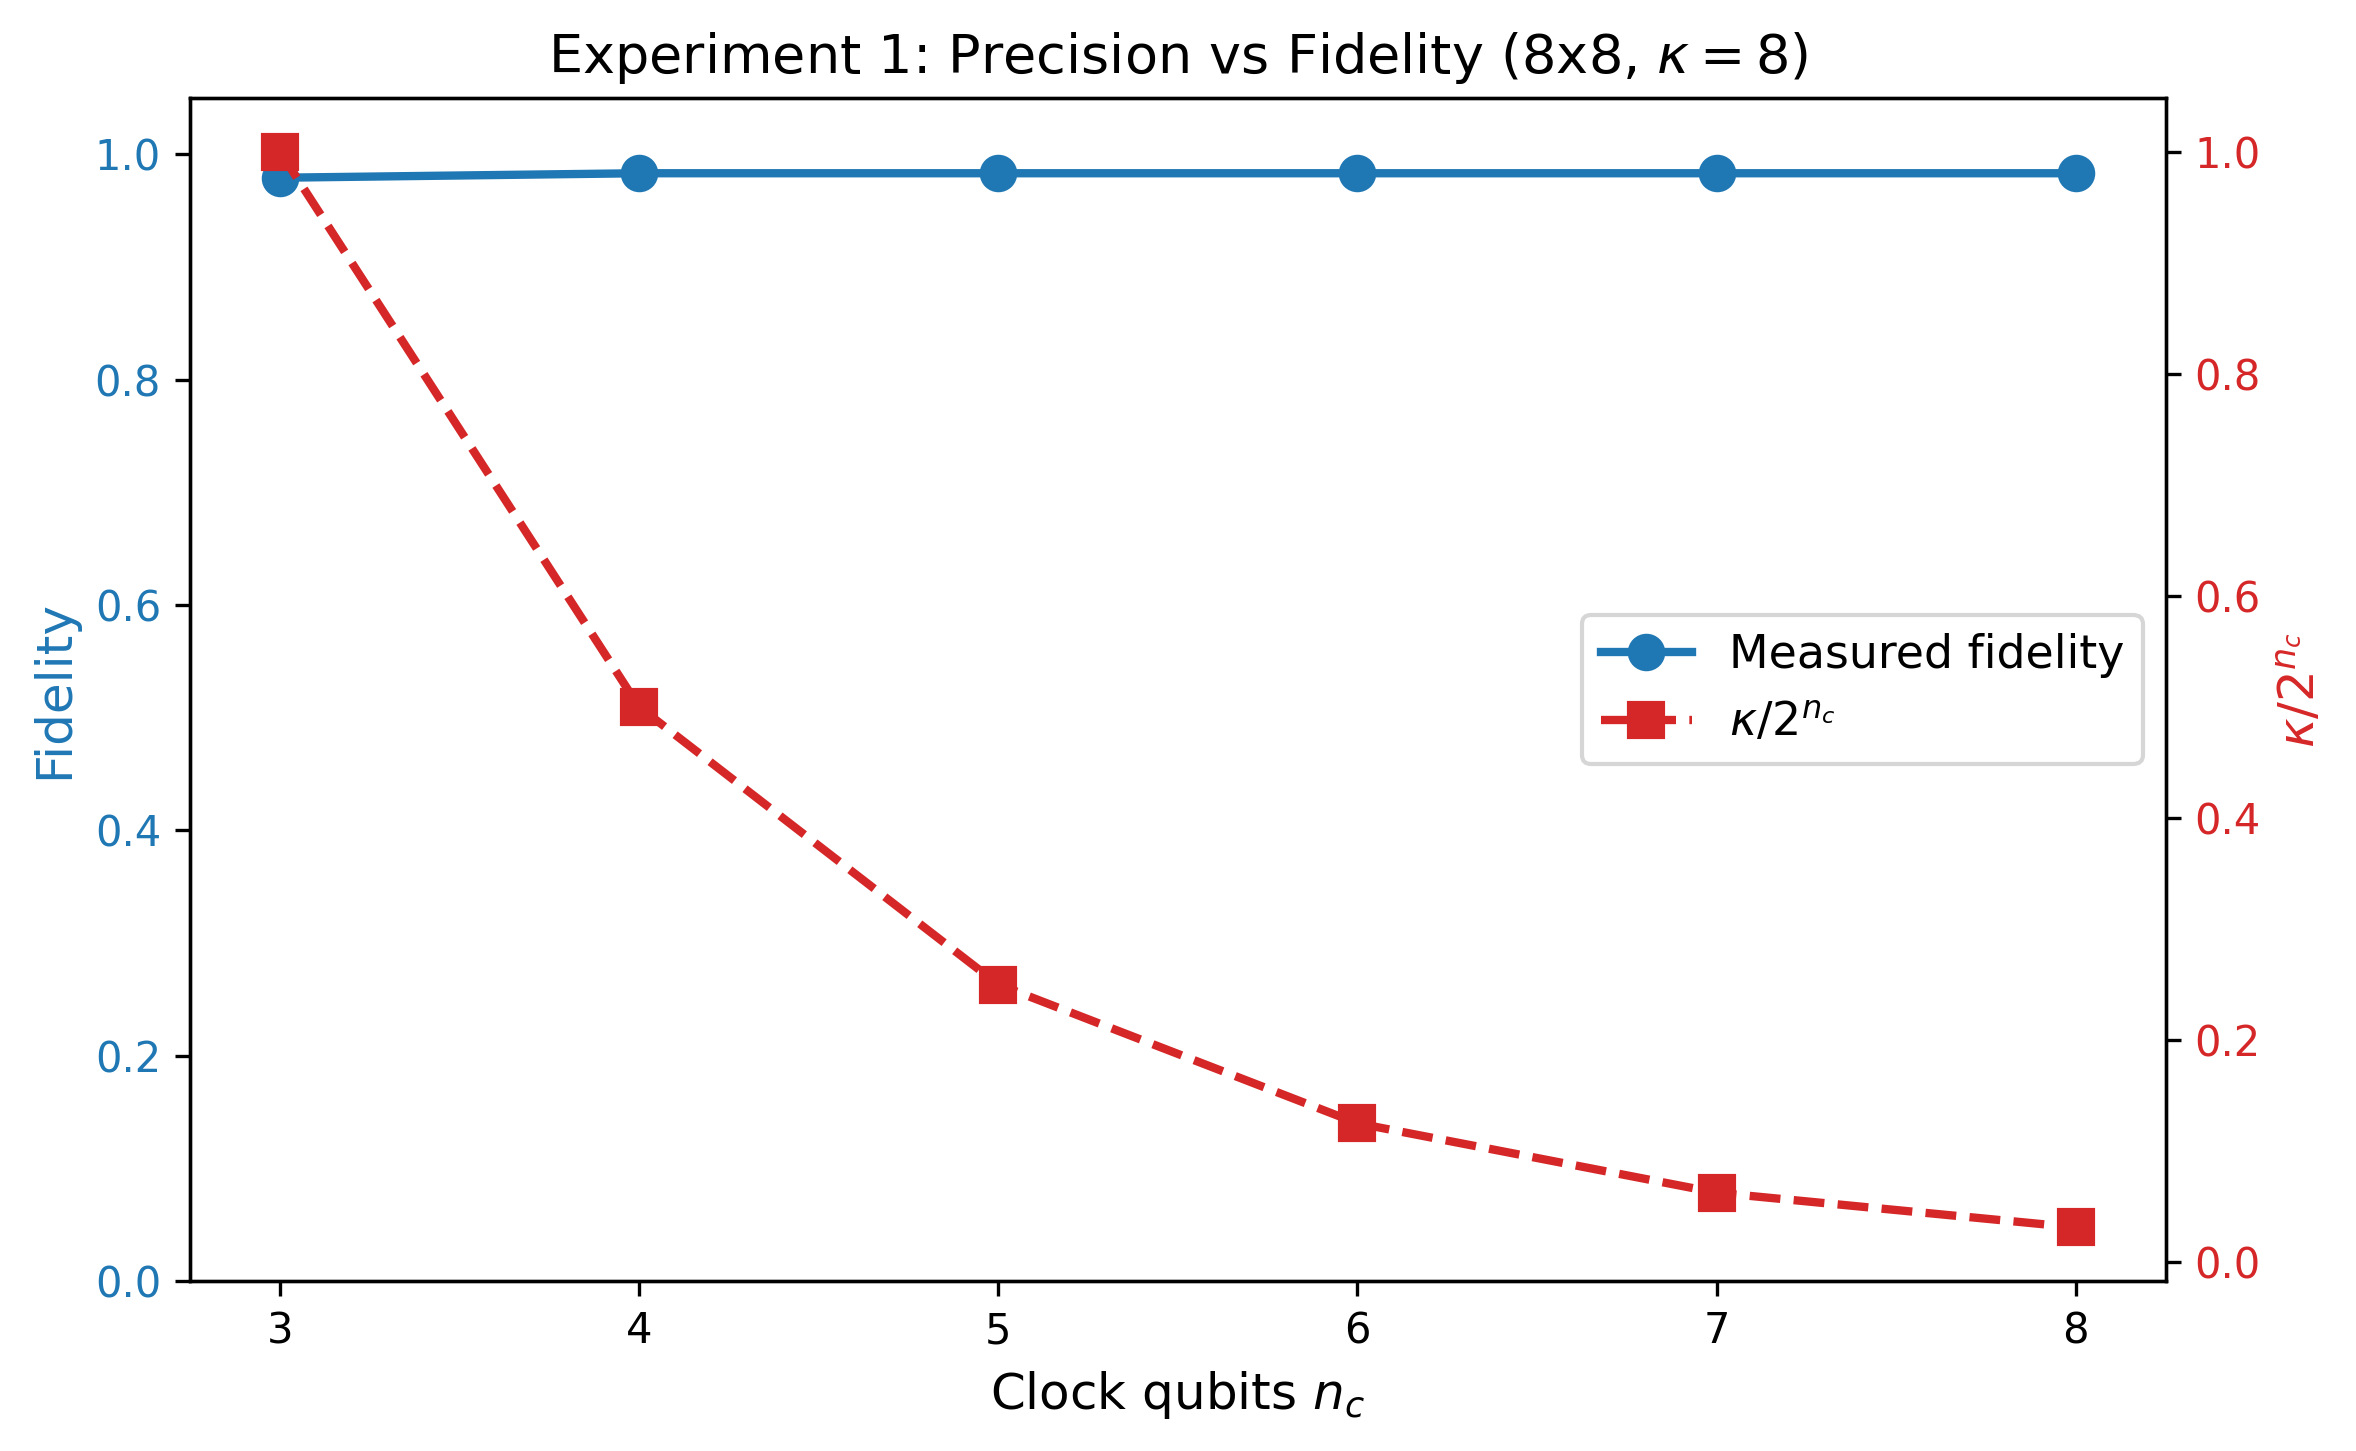
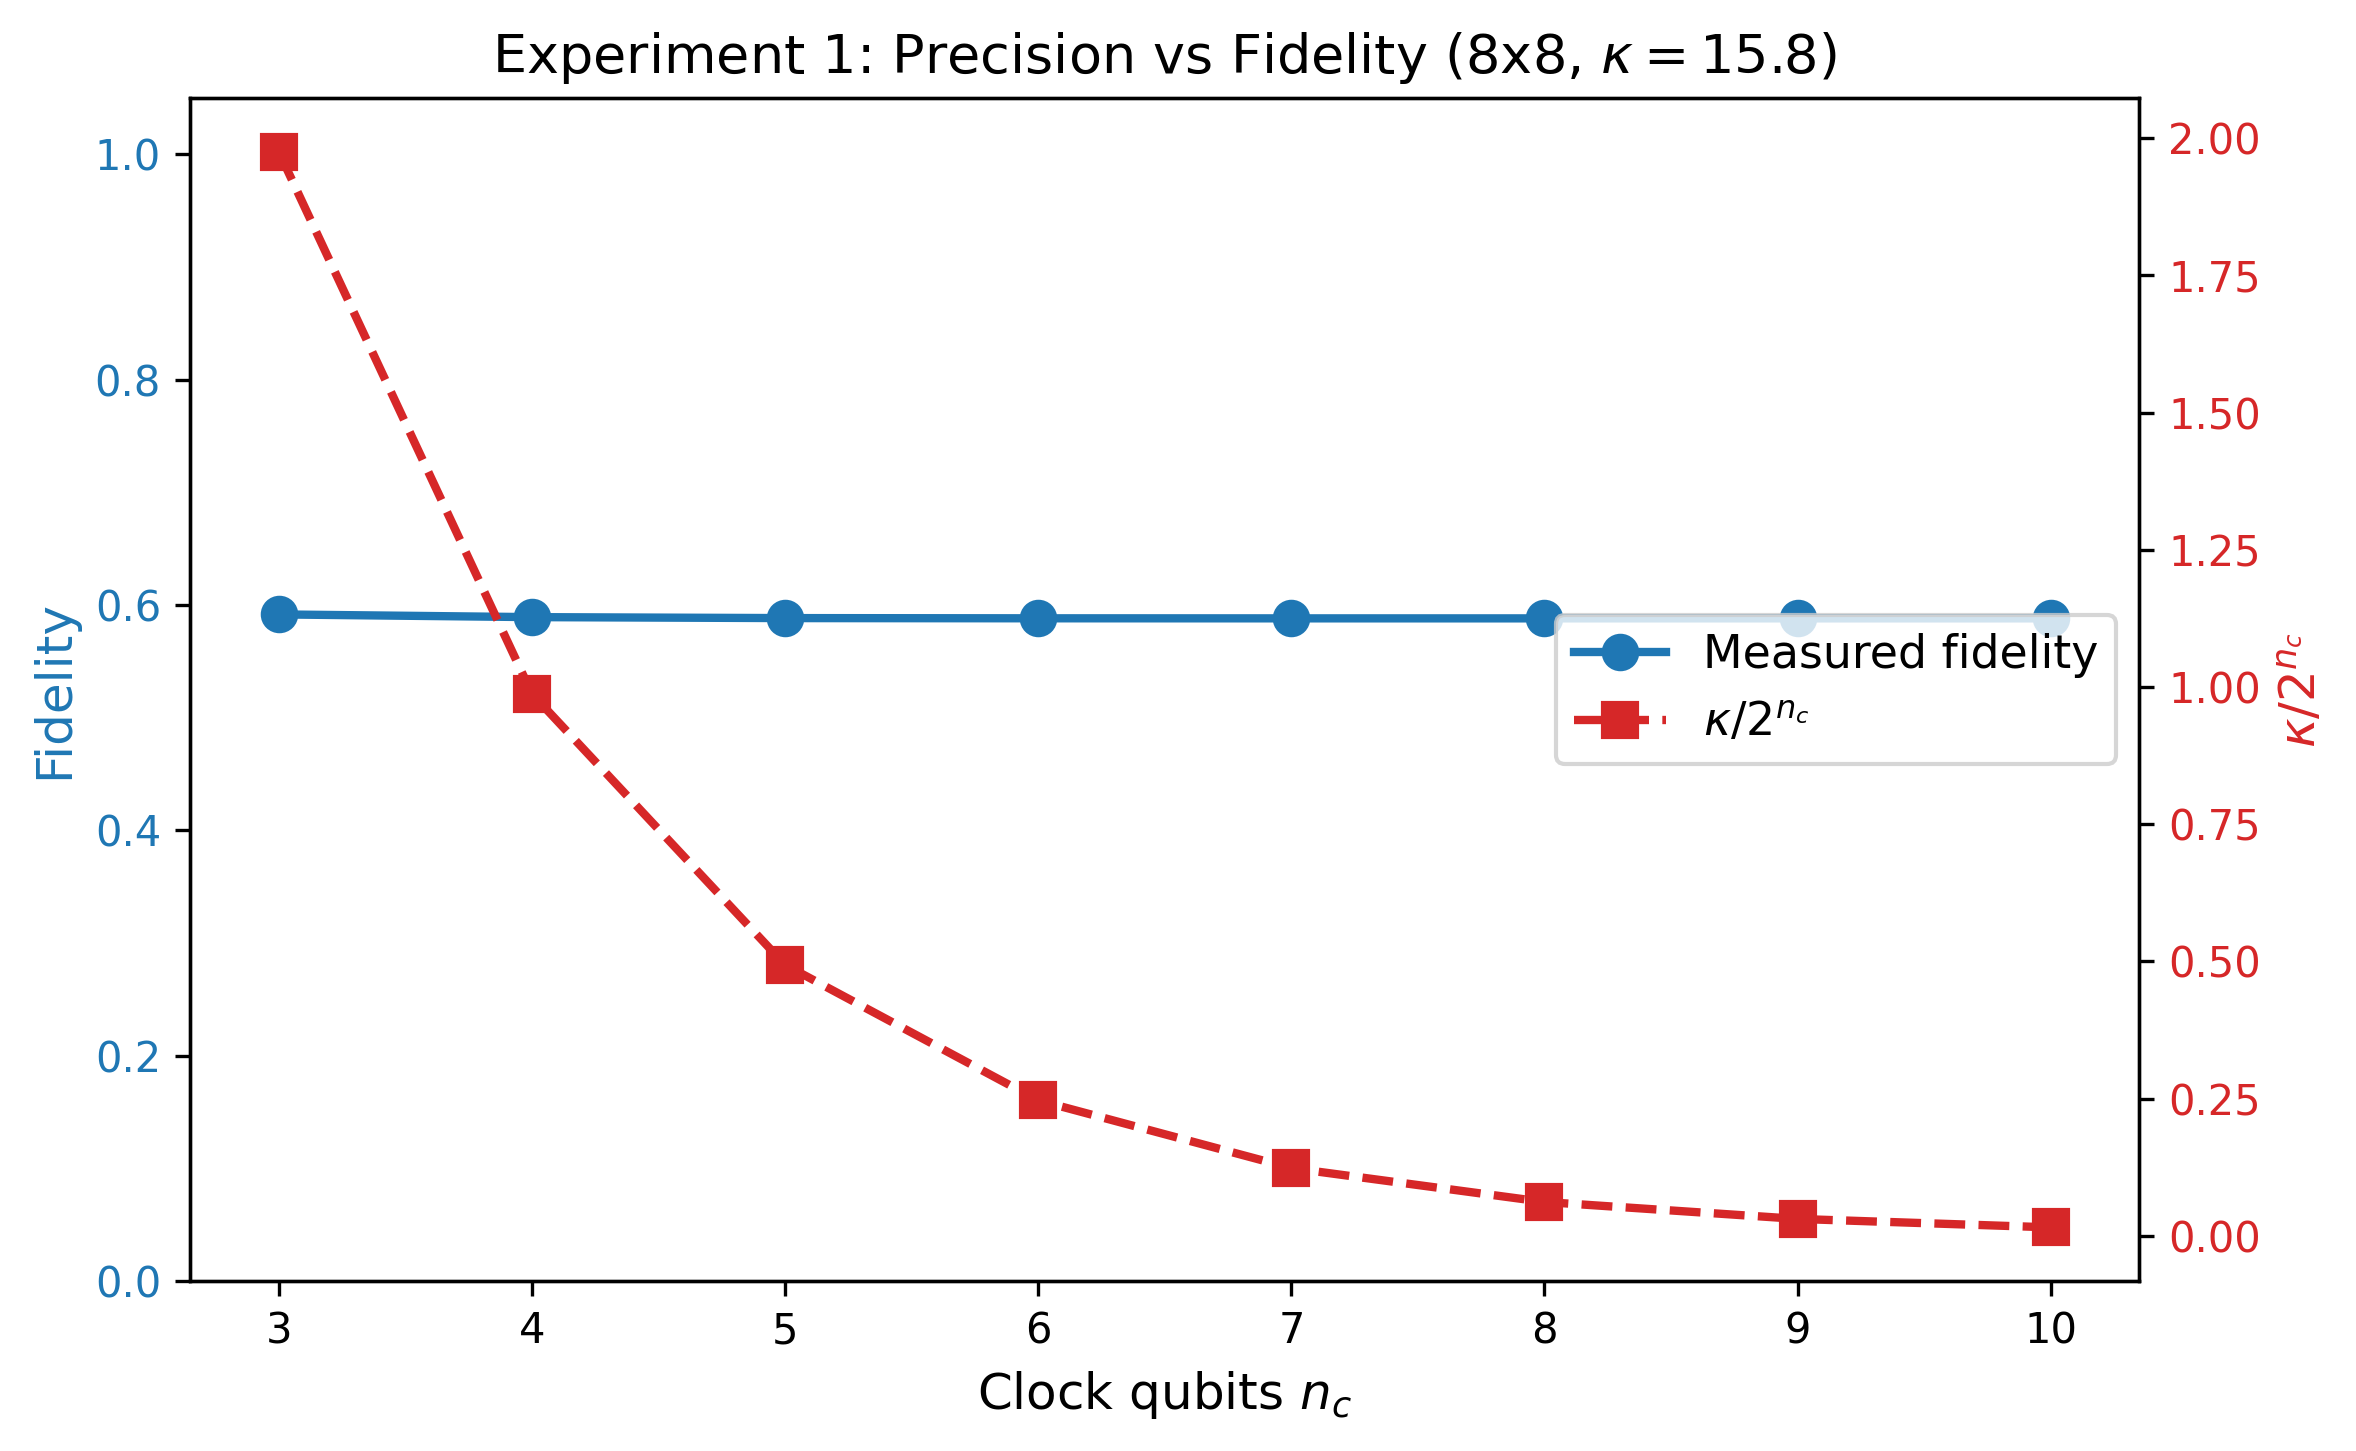
Update

diff --git a/HHL Code.py b/HHL Code.py
@@ -719,12 +719,18 @@ def run_shot_comparison(examples=None, shots=100000):
 def experiment_1_precision(A=None, b=None, n_clock_range=None, label='8x8'):
     """Experiment 1: Fidelity as a function of clock qubits for fixed system."""
     if A is None:
-        examples = generate_examples()
-        A = examples['8x8']['A']
-        b = examples['8x8']['b']
+        # Use NON-INTEGER eigenvalues so phase estimation precision matters
+        np.random.seed(42)
+        Q, _ = np.linalg.qr(np.random.randn(8, 8))
+        eigs = np.array([0.5, 1.3, 2.7, 3.1, 4.8, 5.5, 6.2, 7.9])
+        A = Q @ np.diag(eigs) @ Q.T
+        b = np.zeros(8)
+        b[0] = 1.0
+        b[7] = 1.0
+        b = b / np.linalg.norm(b)
 
     if n_clock_range is None:
-        n_clock_range = [3, 4, 5, 6, 7, 8]
+        n_clock_range = [3, 4, 5, 6, 7, 8, 9, 10]
 
     info = get_system_info(A, b)
     eigenvalues = info['eigenvalues']
@@ -736,6 +742,7 @@ def experiment_1_precision(A=None, b=None, n_clock_range=None, label='8x8'):
     print(f"{'EXPERIMENT 1: Phase Estimation Precision vs Fidelity':^70}")
     print(f"{'=' * 70}")
     print(f"  System: {label}, kappa = {kappa:.2f}")
+    print(f"  Eigenvalues: {eigenvalues}")
     print(f"  Clock qubits tested: {n_clock_range}")
     print(f"\n{'nc':<6} {'kappa/2^nc':<14} {'Fidelity':<12} "
           f"{'p_success':<12} {'Depth':<8}")
@@ -794,7 +801,7 @@ def experiment_1_precision(A=None, b=None, n_clock_range=None, label='8x8'):
                fontsize=11)
 
     plt.title(f'Experiment 1: Precision vs Fidelity ({label}, '
-              rf'$\kappa = {kappa:.0f}$)', fontsize=13)
+              rf'$\kappa = {kappa:.1f}$)', fontsize=13)
     plt.tight_layout()
     plt.savefig(f'figures/exp1_precision_{label}.png', dpi=300,
                 bbox_inches='tight')
